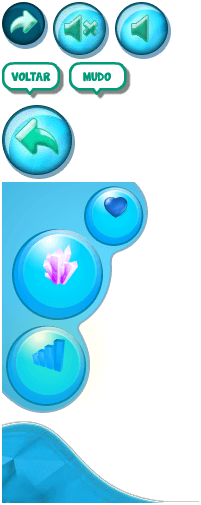
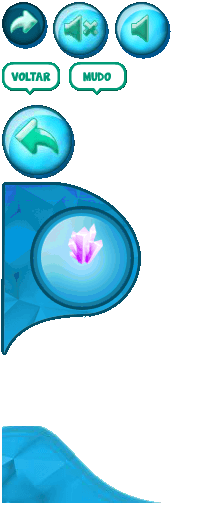
modificado o hud ate av1ud2oa2

diff --git a/src/jogo/UV1/UV1AV1/UV1AV1UD1/UV1AV1UD1OA01/src/Game.js b/src/jogo/UV1/UV1AV1/UV1AV1UD1/UV1AV1UD1OA01/src/Game.js
@@ -141,13 +141,13 @@ BasicGame.Game.prototype = {
 
         this.add.sprite(0,0, "hud");
 
-        this.livesTextShadow = this.add.bitmapText(111,36, "JandaManateeSolid", this.lives.toString(), 18);
-        this.livesTextShadow.tint = 0x010101;
-        this.livesText = this.add.bitmapText(110,35, "JandaManateeSolid", this.lives.toString(), 18);
+       // this.livesTextShadow = this.add.bitmapText(111,36, "JandaManateeSolid", this.lives.toString(), 18);
+        //this.livesTextShadow.tint = 0x010101;
+        //this.livesText = this.add.bitmapText(110,35, "JandaManateeSolid", this.lives.toString(), 18);
 
-        this.pointsTextShadow = this.add.bitmapText(51,102, "JandaManateeSolid", BasicGame.Pontuacao.moedas.toString(), 18);
+        this.pointsTextShadow = this.add.bitmapText(81,82, "JandaManateeSolid", BasicGame.Pontuacao.moedas.toString(), 18);
         this.pointsTextShadow.tint = 0x010101;
-        this.pointsText = this.add.bitmapText(50,101, "JandaManateeSolid", BasicGame.Pontuacao.moedas.toString(), 18);
+        this.pointsText = this.add.bitmapText(80,81, "JandaManateeSolid", BasicGame.Pontuacao.moedas.toString(), 18);
 
         var _cVal = 0;// this.rnd.integerInRange(100,999);
         var coin = this.add.bitmapText(31,191, "JandaManateeSolid", BasicGame.Pontuacao.xp.toString(), 18);

diff --git a/src/jogo/UV1/UV1AV1/UV1AV1UD1/UV1AV1UD1OA02/src/Game.js b/src/jogo/UV1/UV1AV1/UV1AV1UD1/UV1AV1UD1OA02/src/Game.js
@@ -165,13 +165,13 @@ BasicGame.Game.prototype = {
 
         this.add.sprite(0,0, "hud");
 
-        this.livesTextShadow = this.add.bitmapText(111,36, "JandaManateeSolid", this.lives.toString(), 18);
-        this.livesTextShadow.tint = 0x010101;
-        this.livesText = this.add.bitmapText(110,35, "JandaManateeSolid", this.lives.toString(), 18);
+        //this.livesTextShadow = this.add.bitmapText(111,36, "JandaManateeSolid", this.lives.toString(), 18);
+        //this.livesTextShadow.tint = 0x010101;
+        //this.livesText = this.add.bitmapText(110,35, "JandaManateeSolid", this.lives.toString(), 18);
 
-        this.pointsTextShadow = this.add.bitmapText(51,102, "JandaManateeSolid", BasicGame.Pontuacao.moedas.toString(), 18);
+        this.pointsTextShadow = this.add.bitmapText(81,82, "JandaManateeSolid", BasicGame.Pontuacao.moedas.toString(), 18);
         this.pointsTextShadow.tint = 0x010101;
-        this.pointsText = this.add.bitmapText(50,101, "JandaManateeSolid", BasicGame.Pontuacao.moedas.toString(), 18);
+        this.pointsText = this.add.bitmapText(80,81, "JandaManateeSolid", BasicGame.Pontuacao.moedas.toString(), 18);
 
         var _cVal = 0;// this.rnd.integerInRange(100,999);
         var coin = this.add.bitmapText(31,191, "JandaManateeSolid", BasicGame.Pontuacao.xp.toString(), 18);

diff --git a/src/jogo/UV1/UV1AV1/UV1AV1UD1/UV1AV1UD1OA03/src/Game.js b/src/jogo/UV1/UV1AV1/UV1AV1UD1/UV1AV1UD1OA03/src/Game.js
@@ -165,13 +165,13 @@ BasicGame.Game.prototype = {
 
         this.add.sprite(0,0, "hud");
 
-        this.livesTextShadow = this.add.bitmapText(111,36, "JandaManateeSolid", this.lives.toString(), 18);
-        this.livesTextShadow.tint = 0x010101;
-        this.livesText = this.add.bitmapText(110,35, "JandaManateeSolid", this.lives.toString(), 18);
+//        this.livesTextShadow = this.add.bitmapText(111,36, "JandaManateeSolid", this.lives.toString(), 18);
+//        this.livesTextShadow.tint = 0x010101;
+//        this.livesText = this.add.bitmapText(110,35, "JandaManateeSolid", this.lives.toString(), 18);
 
-        this.pointsTextShadow = this.add.bitmapText(51,102, "JandaManateeSolid", BasicGame.Pontuacao.moedas.toString(), 18);
+        this.pointsTextShadow = this.add.bitmapText(81,82, "JandaManateeSolid", BasicGame.Pontuacao.moedas.toString(), 18);
         this.pointsTextShadow.tint = 0x010101;
-        this.pointsText = this.add.bitmapText(50,101, "JandaManateeSolid", BasicGame.Pontuacao.moedas.toString(), 18);
+        this.pointsText = this.add.bitmapText(80,81, "JandaManateeSolid", BasicGame.Pontuacao.moedas.toString(), 18);
 
         var _cVal = 0;// this.rnd.integerInRange(100,999);
         var coin = this.add.bitmapText(31,191, "JandaManateeSolid", BasicGame.Pontuacao.xp.toString(), 18);

diff --git a/src/jogo/UV1/UV1AV1/UV1AV1UD1/UV1AV1UD1OA05/src/Game.js b/src/jogo/UV1/UV1AV1/UV1AV1UD1/UV1AV1UD1OA05/src/Game.js
@@ -156,13 +156,13 @@ BasicGame.Game.prototype = {
 
         this.add.sprite(0,0, "hud");
 
-        this.livesTextShadow = this.add.bitmapText(111,36, "JandaManateeSolid", this.lives.toString(), 18);
-        this.livesTextShadow.tint = 0x010101;
-        this.livesText = this.add.bitmapText(110,35, "JandaManateeSolid", this.lives.toString(), 18);
+//        this.livesTextShadow = this.add.bitmapText(111,36, "JandaManateeSolid", this.lives.toString(), 18);
+//        this.livesTextShadow.tint = 0x010101;
+//        this.livesText = this.add.bitmapText(110,35, "JandaManateeSolid", this.lives.toString(), 18);
 
-        this.pointsTextShadow = this.add.bitmapText(51,102, "JandaManateeSolid", BasicGame.Pontuacao.moedas.toString(), 18);
+        this.pointsTextShadow = this.add.bitmapText(81,82, "JandaManateeSolid", BasicGame.Pontuacao.moedas.toString(), 18);
         this.pointsTextShadow.tint = 0x010101;
-        this.pointsText = this.add.bitmapText(50,101, "JandaManateeSolid", BasicGame.Pontuacao.moedas.toString(), 18);
+        this.pointsText = this.add.bitmapText(80,81, "JandaManateeSolid", BasicGame.Pontuacao.moedas.toString(), 18);
 
         var _cVal = 0;// this.rnd.integerInRange(100,999);
         var coin = this.add.bitmapText(31,191, "JandaManateeSolid", BasicGame.Pontuacao.xp.toString(), 18);

diff --git a/src/jogo/UV1/UV1AV1/UV1AV1UD1/UV1AV1UD1OA06/src/Game.js b/src/jogo/UV1/UV1AV1/UV1AV1UD1/UV1AV1UD1OA06/src/Game.js
@@ -167,13 +167,13 @@ BasicGame.Game.prototype = {
 
         this.add.sprite(0,0, "hud");
 
-        this.livesTextShadow = this.add.bitmapText(111,36, "JandaManateeSolid", this.lives.toString(), 18);
-        this.livesTextShadow.tint = 0x010101;
-        this.livesText = this.add.bitmapText(110,35, "JandaManateeSolid", this.lives.toString(), 18);
+//        this.livesTextShadow = this.add.bitmapText(111,36, "JandaManateeSolid", this.lives.toString(), 18);
+//        this.livesTextShadow.tint = 0x010101;
+//        this.livesText = this.add.bitmapText(110,35, "JandaManateeSolid", this.lives.toString(), 18);
 
-        this.pointsTextShadow = this.add.bitmapText(51,102, "JandaManateeSolid", BasicGame.Pontuacao.moedas.toString(), 18);
+        this.pointsTextShadow = this.add.bitmapText(81,82, "JandaManateeSolid", BasicGame.Pontuacao.moedas.toString(), 18);
         this.pointsTextShadow.tint = 0x010101;
-        this.pointsText = this.add.bitmapText(50,101, "JandaManateeSolid", BasicGame.Pontuacao.moedas.toString(), 18);
+        this.pointsText = this.add.bitmapText(80,81, "JandaManateeSolid", BasicGame.Pontuacao.moedas.toString(), 18);
 
         var _cVal = 0;// this.rnd.integerInRange(100,999);
         var coin = this.add.bitmapText(31,191, "JandaManateeSolid", BasicGame.Pontuacao.xp.toString(), 18);

diff --git a/src/jogo/UV1/UV1AV1/UV1AV1UD2/UV1AV1UD2OA01/src/Game.js b/src/jogo/UV1/UV1AV1/UV1AV1UD2/UV1AV1UD2OA01/src/Game.js
@@ -166,13 +166,13 @@ BasicGame.Game.prototype = {
 
         this.add.sprite(0,0, "hud");
 
-        this.livesTextShadow = this.add.bitmapText(111,36, "JandaManateeSolid", this.lives.toString(), 18);
-        this.livesTextShadow.tint = 0x010101;
-        this.livesText = this.add.bitmapText(110,35, "JandaManateeSolid", this.lives.toString(), 18);
+//        this.livesTextShadow = this.add.bitmapText(111,36, "JandaManateeSolid", this.lives.toString(), 18);
+//        this.livesTextShadow.tint = 0x010101;
+//        this.livesText = this.add.bitmapText(110,35, "JandaManateeSolid", this.lives.toString(), 18);
 
-        this.pointsTextShadow = this.add.bitmapText(51,102, "JandaManateeSolid", BasicGame.Pontuacao.moedas.toString(), 18);
+        this.pointsTextShadow = this.add.bitmapText(81,82, "JandaManateeSolid", BasicGame.Pontuacao.moedas.toString(), 18);
         this.pointsTextShadow.tint = 0x010101;
-        this.pointsText = this.add.bitmapText(50,101, "JandaManateeSolid", BasicGame.Pontuacao.moedas.toString(), 18);
+        this.pointsText = this.add.bitmapText(80,81, "JandaManateeSolid", BasicGame.Pontuacao.moedas.toString(), 18);
 
         var _cVal = 0;// this.rnd.integerInRange(100,999);
         var coin = this.add.bitmapText(31,191, "JandaManateeSolid", BasicGame.Pontuacao.xp.toString(), 18);

diff --git a/src/jogo/UV1/UV1AV1/UV1AV1UD2/UV1AV1UD2OA02/src/Game.js b/src/jogo/UV1/UV1AV1/UV1AV1UD2/UV1AV1UD2OA02/src/Game.js
@@ -156,13 +156,13 @@ BasicGame.Game.prototype = {
 
         this.add.sprite(0,0, "hud");
 
-        this.livesTextShadow = this.add.bitmapText(111,36, "JandaManateeSolid", this.lives.toString(), 18);
-        this.livesTextShadow.tint = 0x010101;
-        this.livesText = this.add.bitmapText(110,35, "JandaManateeSolid", this.lives.toString(), 18);
+//        this.livesTextShadow = this.add.bitmapText(111,36, "JandaManateeSolid", this.lives.toString(), 18);
+//        this.livesTextShadow.tint = 0x010101;
+//        this.livesText = this.add.bitmapText(110,35, "JandaManateeSolid", this.lives.toString(), 18);
 
-        this.pointsTextShadow = this.add.bitmapText(51,102, "JandaManateeSolid", BasicGame.Pontuacao.moedas.toString(), 18);
+        this.pointsTextShadow = this.add.bitmapText(81,82, "JandaManateeSolid", BasicGame.Pontuacao.moedas.toString(), 18);
         this.pointsTextShadow.tint = 0x010101;
-        this.pointsText = this.add.bitmapText(50,101, "JandaManateeSolid", BasicGame.Pontuacao.moedas.toString(), 18);
+        this.pointsText = this.add.bitmapText(80,81, "JandaManateeSolid", BasicGame.Pontuacao.moedas.toString(), 18);
 
         var _cVal = 0;// this.rnd.integerInRange(100,999);
         var coin = this.add.bitmapText(31,191, "JandaManateeSolid", BasicGame.Pontuacao.xp.toString(), 18);

diff --git a/src/jogo/UV1/UV1AV1/UV1AV1UD1/UV1AV1UD1OA04/src/Game.js b/src/jogo/UV1/UV1AV1/UV1AV1UD1/UV1AV1UD1OA04/src/Game.js
@@ -161,11 +161,11 @@ BasicGame.Game.prototype = {
 
         this.add.sprite(0,0, "hud");
 
-        this.livesTextShadow = this.add.bitmapText(111,36, "JandaManateeSolid", this.lives.toString(), 18);
-        this.livesTextShadow.tint = 0x010101;
-        this.livesText = this.add.bitmapText(110,35, "JandaManateeSolid", this.lives.toString(), 18);
+//        this.livesTextShadow = this.add.bitmapText(111,36, "JandaManateeSolid", this.lives.toString(), 18);
+//        this.livesTextShadow.tint = 0x010101;
+//        this.livesText = this.add.bitmapText(110,35, "JandaManateeSolid", this.lives.toString(), 18);
 
-        this.pointsTextShadow = this.add.bitmapText(51,102, "JandaManateeSolid", BasicGame.Pontuacao.moedas.toString(), 18);
+        this.pointsTextShadow = this.add.bitmapText(81,82, "JandaManateeSolid", BasicGame.Pontuacao.moedas.toString(), 18);
         this.pointsTextShadow.tint = 0x010101;
         this.pointsText = this.add.bitmapText(50,101, "JandaManateeSolid", BasicGame.Pontuacao.moedas.toString(), 18);
 

diff --git a/src/jogo/GLOBAL/js/OnlineAPI.js b/src/jogo/GLOBAL/js/OnlineAPI.js
@@ -37,6 +37,9 @@ BasicGame.OnlineAPI = {
             console.log("resposta",resposta);
             console.log("parametrosOriginais",parametrosOriginais);
 
+            resposta['xp']=" ";
+
+
             if (resposta.tipoErro || (resposta.mensagensErro && resposta.mensagensErro.length > 0)) {
                 if (!parametrosOriginais.erro) {
                     console.error("A operacao retornou um objeto de erro, mas nenhum callback de erro foi informado.");

diff --git a/src/jogo/GLOBAL/js/GameBase.js b/src/jogo/GLOBAL/js/GameBase.js
@@ -690,8 +690,6 @@ showTextVictory: function() {
         BasicGame.OnlineAPI.registrarConclusao(this.listCorrects, function(data) {
             _this.createDelayTime(500, _this.backButton); //Parte de voltar ao mapa pelo botao
         }, function(error) {
-            console.log('ERRO?',error);
-
 
             _this.eventConclusao = new Phaser.Signal();
             _this.time.events.removeAll();

diff --git a/src/control/aprendizagem_controller.py b/src/control/aprendizagem_controller.py
@@ -34,6 +34,13 @@ def obterUltimaConclusao():
 
 
 def verificarAcessoObjetoAprendizagem():
+    """
+    percorre todas as OAs da semana e se o aluno tiver terminado o jogo anterior ao menos no medio , debloqueia o prox jogo
+    se for um cinematic, apenas adiciona a lista
+    verifica se jogou o anterior , se tem dados do anterior , verifica se nao é lista, porque se concluir o jogo no facil vem uma lista (dado anomalo)
+
+    :return:
+    """
     usuario = usuario_logado()
     parametros = parametros_json_jogos(request.params.items())
     if usuario['tipo'] < TIPO_USUARIOS['aluno']:
@@ -45,54 +52,69 @@ def verificarAcessoObjetoAprendizagem():
         else:
             teste = []
             for i in parametros['objetosAprendizagem']:
-                print("verificar acesso OA",i,len(i),i[11:13])
 
                 e=list(i)
-                print("lista da OA",e[len(e)-1],e)
-                if (e[len(e)-1] !="1" and e[len(e)-1] !=1)  or e[9]!='C':
+                print("lista da OA",[len(e)-1],e)
+                if (e[len(e)-1] !="1" and e[len(e)-1] !=1) and e[9]!='C':
                     e[len(e)-1]=str(int(e[len(e)-1])-1)
                     anterior=''.join(e)
                     desempenho_oa = facade.oa_teste_facade(id_aluno=str(usuario['id']), oa=i)
                     desempenho_oa_anterior=facade.oa_teste_facade(id_aluno=str(usuario['id']), oa=anterior)
 
-                    print(desempenho_oa_anterior,desempenho_oa)
+
                     if desempenho_oa_anterior!=[]:
 
                         last_best_game = convertendo_str_in_dict(desempenho_oa_anterior[0]['jogo_jogado'][0])
-                        print('hhm',anterior,last_best_game,desempenho_oa,desempenho_oa_anterior)
+
 
                         if desempenho_oa == [] and not isinstance(last_best_game,list):
-                            print('aaaa')
+
                             if last_best_game['termino'] == True:
                                 if last_best_game['nivel'] == "facil":
-                                    for x in range(0,len(desempenho_oa_anterior[0]['jogo_jogado'][0])):
-                                        best_game_list=convertendo_str_in_dict(desempenho_oa_anterior[0]['jogo_jogado'][x])
-                                        if best_game_list["nivel"]!= "facil" and best_game_list["termino"]==True:
-                                            teste.append(i)
-                                            break
-                                    break
+
+                                    try:#excessao feita por causa do jogo UV1AV1UD6OA03 que gera um dado anormal "certo" , possivel erro do jogo (era para ter 3 niveis?)
+                                        for x in range(len(desempenho_oa_anterior[0]['jogo_jogado'][0])):
+                                            best_game_list=convertendo_str_in_dict(desempenho_oa_anterior[0]['jogo_jogado'][x])
+                                            if best_game_list["nivel"]!= "facil" and best_game_list["termino"]==True:
+                                                teste.append(i)
+                                                break
+                                        break
+                                    except IndexError:
+                                        teste.append(i)
+                                        break#
                                 else:
-                                    print('if')
+
                                     teste.append(i)
-                                    break
+                                    break#
+
                         elif not isinstance(last_best_game,list):
                             if last_best_game['termino'] == True:
-                                print('if')
-                                teste.append(i)
-                        elif i== "UV1AV1UD4OA05":
-                            teste.append(i)
-                        else:
-                            teste.append(i)
 
-                    else:
-                        if desempenho_oa == []:
+                                teste.append(i)
+                        elif i== "UV1AV1UD4OA05" or i=="UV1AV2UD8OA02":
                             teste.append(i)
-                            break
+                        elif desempenho_oa == [] and isinstance(last_best_game,list):
+                            if last_best_game[0]['nivel']=="facil":
+
+                                for x in range(len(desempenho_oa_anterior[0]["jogo_jogado"])):
+                                    try:
+                                        last_facil=convertendo_str_in_dict(desempenho_oa_anterior[0]["jogo_jogado"][x])
+                                        if last_facil["termino"]==True:
+                                            teste.append(i)
+                                            break
+
+                                    except Exception as aaa:
+                                        continue
+
+                            else:
+                                teste.append(i)
+                    else:
+                        teste.append(i)
+                        break
 
                 else:
-
                     desempenho_oa = facade.oa_teste_facade(id_aluno=str(usuario['id']), oa=i)
-                    if desempenho_oa == []:
+                    if desempenho_oa == [] and e[len(e)-1]:
                         teste.append(i)
 
             retorno = {'objetosAprendizagemAcessiveis': teste}
